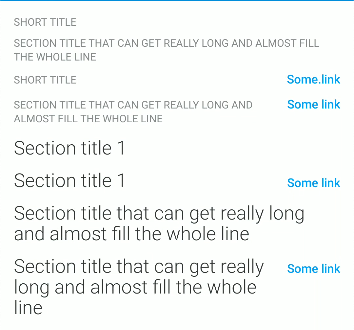
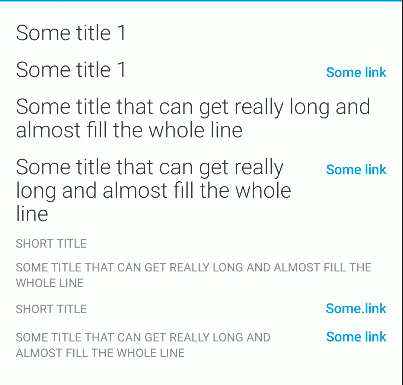
ANDROID-10654 Title compose version

diff --git a/library-compose/src/main/java/com/telefonica/mistica/compose/title/Title.kt b/library-compose/src/main/java/com/telefonica/mistica/compose/title/Title.kt
@@ -1,0 +1,99 @@
+package com.telefonica.mistica.compose.title
+
+import androidx.compose.foundation.clickable
+import androidx.compose.foundation.layout.Row
+import androidx.compose.foundation.layout.padding
+import androidx.compose.material.Text
+import androidx.compose.runtime.Composable
+import androidx.compose.ui.Modifier
+import androidx.compose.ui.graphics.Color
+import androidx.compose.ui.text.TextStyle
+import androidx.compose.ui.unit.dp
+import com.telefonica.mistica.compose.theme.MisticaTheme
+
+@Composable
+fun Title(
+    modifier: Modifier = Modifier,
+    style: TitleStyle,
+    text: String,
+    linkText: String? = null,
+    onLinkClicked: (() -> Unit)? = null
+) {
+    Row(
+        modifier = modifier,
+    ) {
+        TitleText(
+            modifier = Modifier
+                .weight(1F)
+                .alignByBaseline(),
+            text = text,
+            style = style
+        )
+
+        linkText?.let {
+            Link(
+                modifier = Modifier
+                    .padding(start = 16.dp)
+                    .alignByBaseline(),
+                text = it,
+                onClick = onLinkClicked
+            )
+        }
+    }
+}
+
+@Composable
+private fun TitleText(
+    modifier: Modifier,
+    text: String,
+    style: TitleStyle,
+) {
+    val preset: TextStyle
+    val textColor: Color
+    val isAllCaps: Boolean
+
+    when (style) {
+        TitleStyle.TITLE_1 -> {
+            preset = MisticaTheme.typography.preset5
+            textColor = MisticaTheme.colors.textPrimary
+            isAllCaps = false
+        }
+        TitleStyle.TITLE_2 -> {
+            preset = MisticaTheme.typography.preset1
+            textColor = MisticaTheme.colors.textSecondary
+            isAllCaps = true
+        }
+    }
+
+    Text(
+        modifier = modifier,
+        text = if (isAllCaps) text.uppercase() else text,
+        style = preset,
+        color = textColor
+    )
+}
+
+@Composable
+private fun Link(
+    modifier: Modifier,
+    text: String,
+    onClick: (() -> Unit)? = null
+) {
+    val linkModifier = if (onClick != null) {
+        modifier.then(Modifier.clickable { onClick() })
+    } else {
+        modifier
+    }
+
+    Text(
+        modifier = linkModifier,
+        text = text,
+        style = MisticaTheme.typography.preset2Medium,
+        color = MisticaTheme.colors.textLink
+    )
+}
+
+enum class TitleStyle {
+    TITLE_1,
+    TITLE_2
+}

diff --git a/catalog-compose/src/main/java/com/telefonica/mistica/compose/catalog/ui/components/Titles.kt b/catalog-compose/src/main/java/com/telefonica/mistica/compose/catalog/ui/components/Titles.kt
@@ -1,0 +1,57 @@
+package com.telefonica.mistica.compose.catalog.ui.components
+
+import androidx.compose.foundation.layout.Column
+import androidx.compose.foundation.layout.fillMaxSize
+import androidx.compose.foundation.layout.padding
+import androidx.compose.foundation.rememberScrollState
+import androidx.compose.foundation.verticalScroll
+import androidx.compose.runtime.Composable
+import androidx.compose.ui.Modifier
+import androidx.compose.ui.unit.dp
+import com.telefonica.mistica.compose.title.Title
+import com.telefonica.mistica.compose.title.TitleStyle
+
+@Composable
+fun Titles() {
+    val scrollState = rememberScrollState()
+    Column(
+        modifier = Modifier
+            .fillMaxSize()
+            .verticalScroll(scrollState)
+            .padding(16.dp)
+    ) {
+        TitleStyle.values().forEach {
+            Titles(it)
+        }
+    }
+}
+
+@Composable
+private fun Titles(
+    style: TitleStyle
+) {
+    Title(
+        modifier = Modifier.padding(bottom = 8.dp),
+        style = style,
+        text = "Short title",
+    )
+    Title(
+        modifier = Modifier.padding(bottom = 8.dp),
+        style = style,
+        text = "Short title",
+        linkText = "Some link",
+        onLinkClicked = {}
+    )
+    Title(
+        modifier = Modifier.padding(bottom = 8.dp),
+        style = style,
+        text = "Some title that can get really long and almost fill the whole line",
+    )
+    Title(
+        modifier = Modifier.padding(bottom = 8.dp),
+        style = style,
+        linkText = "Some link",
+        text = "Some title that can get really long and almost fill the whole line",
+        onLinkClicked = {}
+    )
+}

diff --git a/catalog-compose/src/main/java/com/telefonica/mistica/compose/catalog/ui/CatalogMainActivity.kt b/catalog-compose/src/main/java/com/telefonica/mistica/compose/catalog/ui/CatalogMainActivity.kt
@@ -49,6 +49,7 @@ import com.telefonica.mistica.compose.catalog.ui.components.MediaCards
 import com.telefonica.mistica.compose.catalog.ui.components.Steppers
 import com.telefonica.mistica.compose.catalog.ui.components.Tags
 import com.telefonica.mistica.compose.catalog.ui.components.Texts
+import com.telefonica.mistica.compose.catalog.ui.components.Titles
 import com.telefonica.mistica.compose.theme.MisticaTheme
 import com.telefonica.mistica.compose.theme.brand.BlauBrand
 import com.telefonica.mistica.compose.theme.brand.Brand
@@ -154,6 +155,7 @@ fun CatalogNavHost(
         composable(NavigationRoutes.EMPTY_STATE_CARD) { EmptyStateCards() }
         composable(NavigationRoutes.EMPTY_STATE_SCREEN) { EmptyStateScreens() }
         composable(NavigationRoutes.STEPPER) { Steppers() }
+        composable(NavigationRoutes.TITLES) { Titles() }
     }
 }
 
@@ -224,6 +226,11 @@ fun Catalog(
             name = "Steppers",
             icon = R.drawable.ic_stepper,
             navigation = NavigationRoutes.STEPPER
+        ),
+        ComponentScreen(
+            name = "Titles",
+            icon = R.drawable.ic_texts,
+            navigation = NavigationRoutes.TITLES
         ),
     )
     Column {
@@ -300,4 +307,5 @@ object NavigationRoutes {
     const val EMPTY_STATE_SCREEN = "empty-state-screen"
     const val EMPTY_STATE_CARD = "empty-state-card"
     const val STEPPER = "stepper"
+    const val TITLES = "titles"
 }
